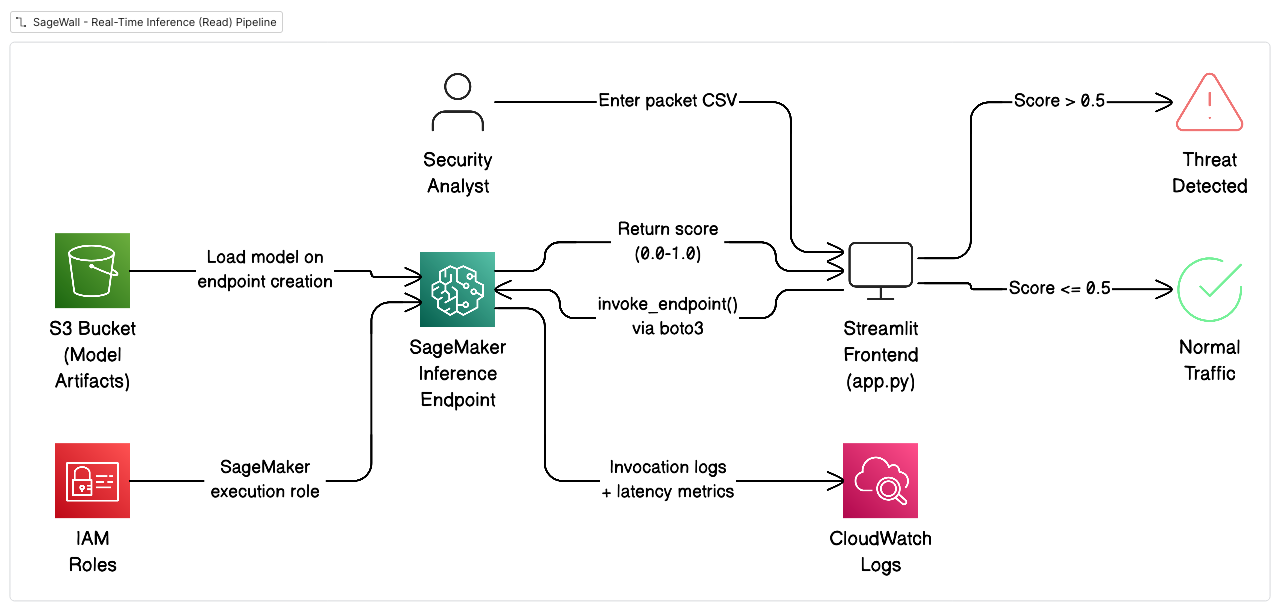
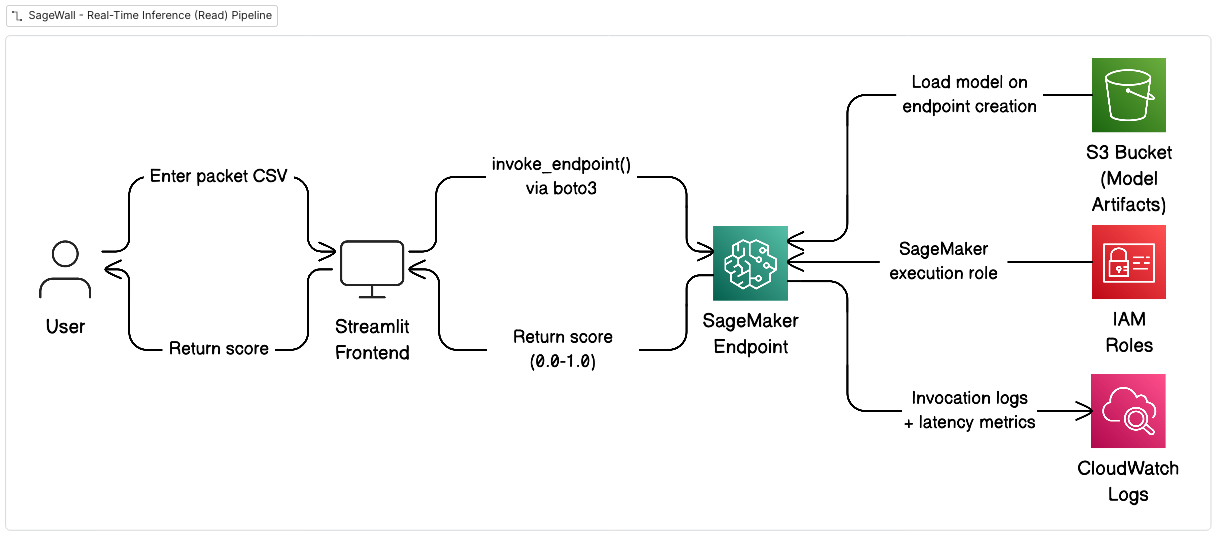
update and fix diagrams

diff --git a/assets/diagrams/sagewall-read.md b/assets/diagrams/sagewall-read.md
@@ -1,29 +1,26 @@
 ```eraser.io
 title SageWall - Real-Time Inference (Read) Pipeline
 // User Layer
-User [icon: user, label: "Security\nAnalyst"]
+User [icon: user, label: "User"]
 // Frontend
-Streamlit [icon: monitor, label: "Streamlit\nFrontend (app.py)"]
+Streamlit [icon: monitor, label: "Streamlit Frontend"]
 // Inference Layer
-Endpoint [icon: aws-sagemaker, label: "SageMaker\nInference Endpoint"]
+Endpoint [icon: aws-sagemaker, label: "SageMaker Endpoint"]
 // Storage
 S3 Models [icon: aws-simple-storage-service, label: "S3 Bucket\n(Model Artifacts)"]
 // Supporting Services
 IAM [icon: aws-iam, label: "IAM\nRoles"]
 CloudWatch [icon: aws-cloudwatch, label: "CloudWatch\nLogs"]
 // Result Display
-Threat Alert [icon: alert-triangle, color: red, label: "Threat\nDetected"]
-Safe Traffic [icon: check-circle, color: green, label: "Normal\nTraffic"]
 // User Interaction Flow
 User > Streamlit: Enter packet CSV
 Streamlit > Endpoint: invoke_endpoint()\nvia boto3
 Endpoint > Streamlit: Return score (0.0-1.0)
-Streamlit > Threat Alert: Score > 0.5
-Streamlit > Safe Traffic: Score <= 0.5
 // Model Loading (One-Time on Deployment)
 S3 Models > Endpoint: Load model on\nendpoint creation
 // IAM Permissions
 IAM > Endpoint: SageMaker execution role
 // Monitoring
 Endpoint > CloudWatch: Invocation logs\n+ latency metrics
+Streamlit > User: Return score
 ```

diff --git a/assets/diagrams/sagewall-write.md b/assets/diagrams/sagewall-write.md
@@ -3,19 +3,19 @@ title SageWall - ML Training (Write) Pipeline
 // Data Sources
 Network Logs [shape: oval, icon: file-text, color: blue, label: "NSL-KDD\nDataset"]
 // Storage Layer
-S3 Raw [icon: aws-simple-storage-service, label: "S3 Bucket\n(Raw Logs)"]
-S3 Processed [icon: aws-simple-storage-service, label: "S3 Bucket\n(Processed CSV)"]
+S3 Raw [icon: aws-simple-storage-service, label: "S3 Bucket\n(Raw)"]
+S3 Processed [icon: aws-simple-storage-service, label: "S3 Bucket\n(Processed)"]
 S3 Models [icon: aws-simple-storage-service, label: "S3 Bucket\n(Model Artifacts)"]
 // Compute Layer
-Lambda [icon: aws-lambda, label: "Lambda\n(ETL Preprocessing)"]
-SageMaker Training [icon: aws-sagemaker, label: "SageMaker\nTraining Job"]
+Lambda [icon: aws-lambda, label: "Lambda\n(ETL Pre-processing)"]
+SageMaker Training [icon: aws-sagemaker, label: "SageMaker\nTraining"]
 // Supporting Services
 IAM [icon: aws-iam, label: "IAM\nRoles"]
 CloudWatch [icon: aws-cloudwatch, label: "CloudWatch\nLogs"]
 // Main Training Flow
 Network Logs > S3 Raw: Upload raw data
 S3 Raw > Lambda: S3 PUT Event trigger
-Lambda > S3 Processed: Write cleaned CSV\n(One-hot encoding)
+Lambda > S3 Processed: Cleaned CSV
 S3 Processed > SageMaker Training: 80/20 train/val split
 SageMaker Training > S3 Models: Save model.tar.gz
 // IAM Permissions
